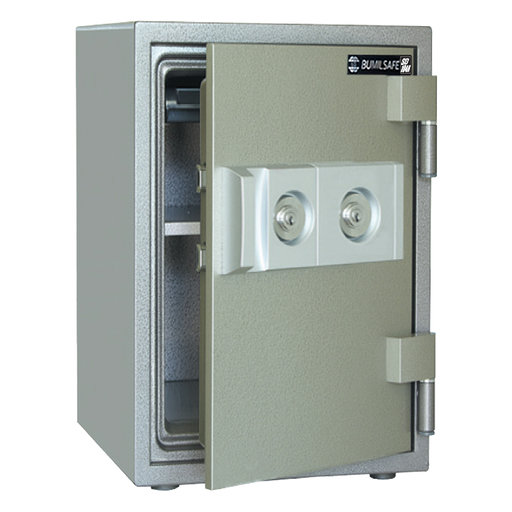
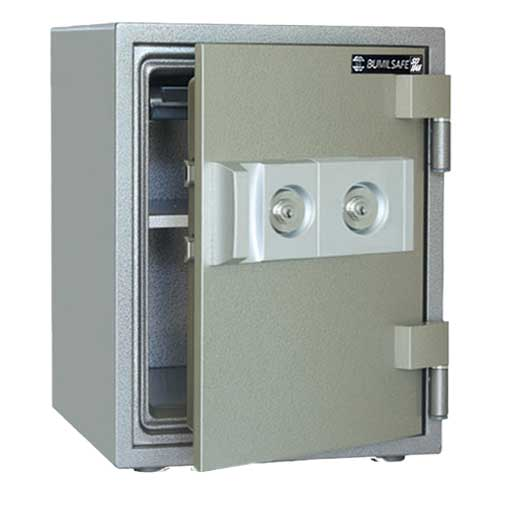
images in home page

Changed region(s): [[0.1875, 0.0312, 0.9062, 0.9688], [0.0938, 0.0312, 0.1562, 0.8438], [0.1562, 0.8438, 0.1875, 0.875]]

diff --git a/src/app/Pages/home-page/home-page.component.html b/src/app/Pages/home-page/home-page.component.html
@@ -174,7 +174,7 @@
       <div class="col-md-4 col-12">
         <a routerLink="//products/safes" class="promo-bx-link">
           <div class="promo-bx bg-overlay-black-20"
-               style="background: url(assets/images/Products/Safes3/img33.jpeg)  no-repeat center;">
+               style="background: url(assets/images/HomePage/safe.jpg)  no-repeat center;">
             <p class="cross">Collection 2020</p>
             <div class="promo-tx">
               <p>345 Products</p>
